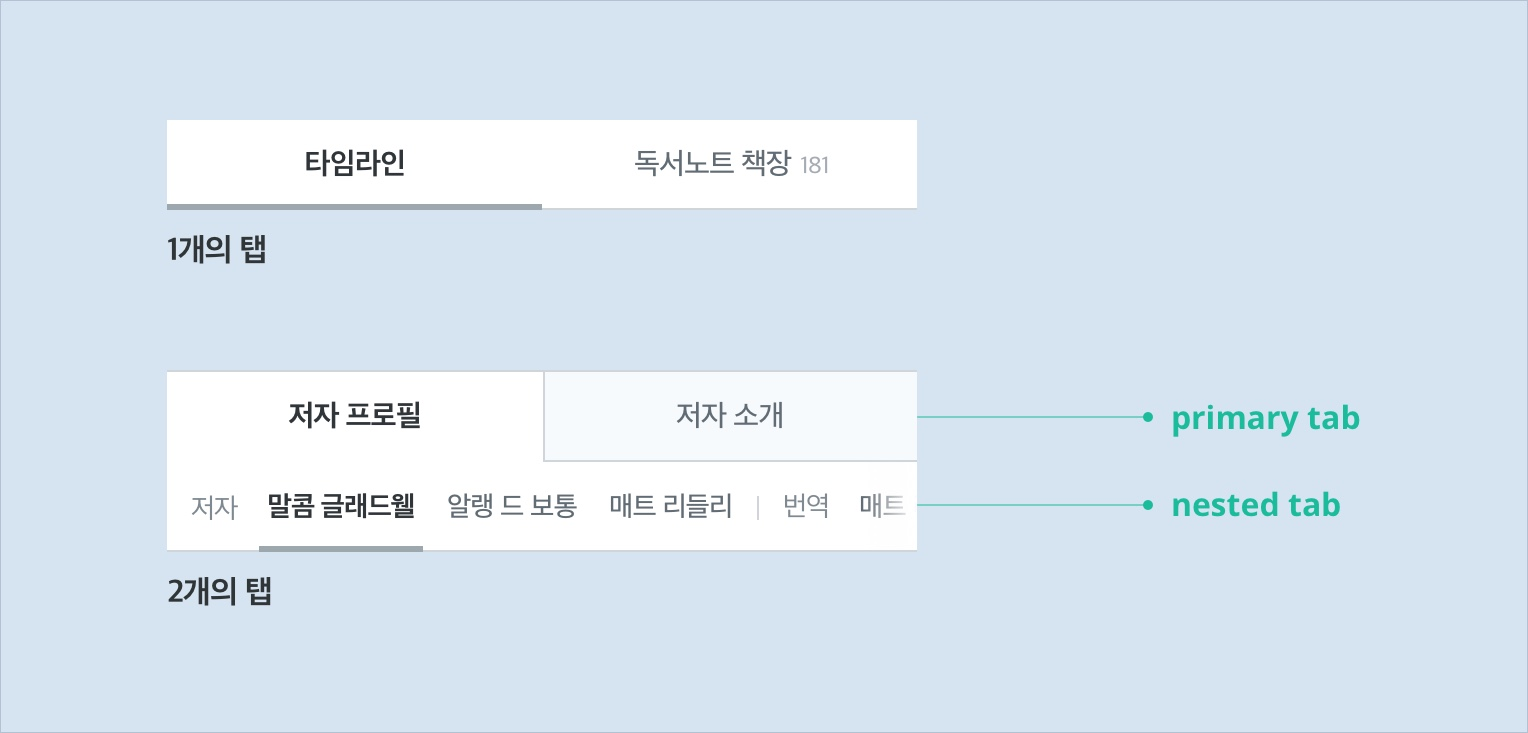
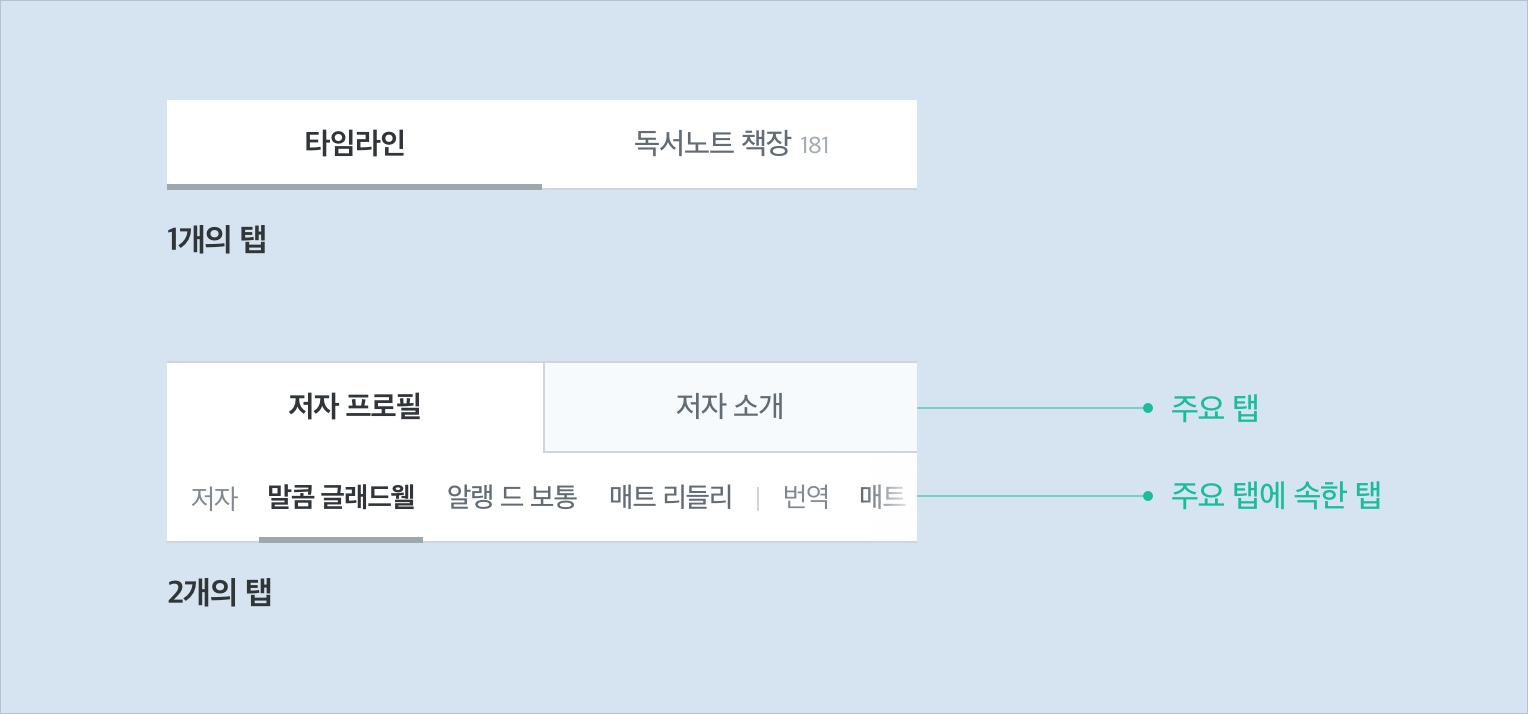
Update images and writings

diff --git a/docs/_pages/web/components/index.md b/docs/_pages/web/components/index.md
@@ -299,43 +299,54 @@
 
 탭을 사용하면 한정된 공간 안에서 연관된 여러 콘텐츠를 체계적으로 보여줄 수 있습니다. 페이지에서 완전히 벗어나지 않고 쉽게 연관된 콘텐츠를 살펴볼 수 있습니다.
 
-![tab](tab-intro.jpg)
+![Tabs](tab-intro.jpg)
 
 ### 종류
 
 #### 탭 개수
 
-![tab](tab-number.jpg)
+![탭 개수](tab-number.jpg)
 
 - 1개의 탭
 - 2개의 탭
-  - 주요 탭은 `primary tab`, 주요 탭에 속한 탭은 `nested tab`이라고 부릅니다.
-
-#### 탭 아이템 가로 길이에 따른 분류
-
-- 전체 길이를 탭 개수로 나눠서 탭 아이템이 다 같은 너비인 경우 `fitted tab` 라고 부릅니다.
-- 탭 아이템 내부의 텍스트 레이블의 비율에 맞춰서 다 다른 너비를 사용하는 경우 `clustered fixed tab` 이라고 부릅니다.
-  - 언제 이 탭을 써야 하나요?
-    - 탭 아이템이 4개 이상이고 다섯 글자 이상인 텍스트 레이블이 1-2개 있을 때
-    - 위 케이스 외에도 `fitted tab`으로 구성했는데 불균형해 보인다면 해당 탭을 사용합니다.
+  - 주요 탭과 주요 탭 안에 속한 탭으로 구성됩니다.
+  - 주요 탭은 속한 탭과 구분되기 쉽도록 판넬 스타일을 사용합니다.
 
 #### 위치
 
-- 상단
+![위치](tab-position.jpg)
+
+- 최상단
+  - 페이지 타이틀과 함께 사용됩니다.
 - 페이지 중간
+  - 페이지 중간에 사용되는 탭으로 탭 위에 항상 구분선이 필요합니다.
+    - 페이지 중간 탭은 계속 노출해야 할 정도로 중요한 경우, 스크롤 시 상단에 고정되게 할 수 있습니다.
 
-#### 가로 스크롤 여부
+#### 탭 아이템 가로 길이에 따른 분류
 
-- 오버플로
+탭 아이템 개수가 고정일 때 사용합니다.
+
+![가로 길이에 따른 분류](tab-width.jpg)
+
+- 전체 길이를 탭 아이템 개수로 나눠서 모두 균등한 너비인 탭
+- 탭 아이템 내 텍스트 레이블의 비율에 맞춰 불균등한 너비를 사용하는 탭
+  - 언제 이 탭을 써야 하나요?
+    - 탭 아이템이 4개 이상이고 다섯 글자 이상인 텍스트 레이블이 1-2개 있을 때
+    - 위 케이스 외에도 불균형해 보인다면 해당 탭을 사용합니다.
+
+#### 가로 스크롤이 가능한 탭
+
+![가로 스크롤 가능 탭](tab-overflow.jpg)
+
+- 주로 탭 아이템 개수가 고정되지 않은 경우 사용합니다.
+- 텍스트 레이블의 너비를 기준으로 탭 아이템 가로 길이를 산정하며 탭 아이템은 일정한 여백을 두고 나열됩니다.
 
 ### 유의사항
 
-- 탭 레이블은 짧고 간결해야 하며 내용을 적절하게 설명해야 합니다.
-- 바로 확인할 수 있도록 레이블 뒤에 관련 숫자를 같이 표기할 수도 있습니다.
-- 탭의 개수는 모바일을 고려하여 6개 이하로 구성합니다.
-- 탭의 순서는 중요한 콘텐츠 순으로 나열합니다.
-- 데스크톱에서 탭의 전체 길이는 콘텐츠 영역에 맞춰 지정합니다.
-- 모바일에서 하나의 탭 크기는 개수/전체 길이로 지정합니다.
+- 탭 아이템의 텍스트 레이블은 짧고 간결해야 하며 예측할 수 있도록 설명해야 합니다.
+- 탭 아이템 개수는 모바일을 고려하여 5개 이하로 구성합니다.
+- 탭 아이템 순서는 최대한 중요한 순서로 지정합니다.
+- 모든 정렬이 중요한 경우 셀렉트 박스가 아닌 탭을 사용하기도 합니다. 
 
 
 
